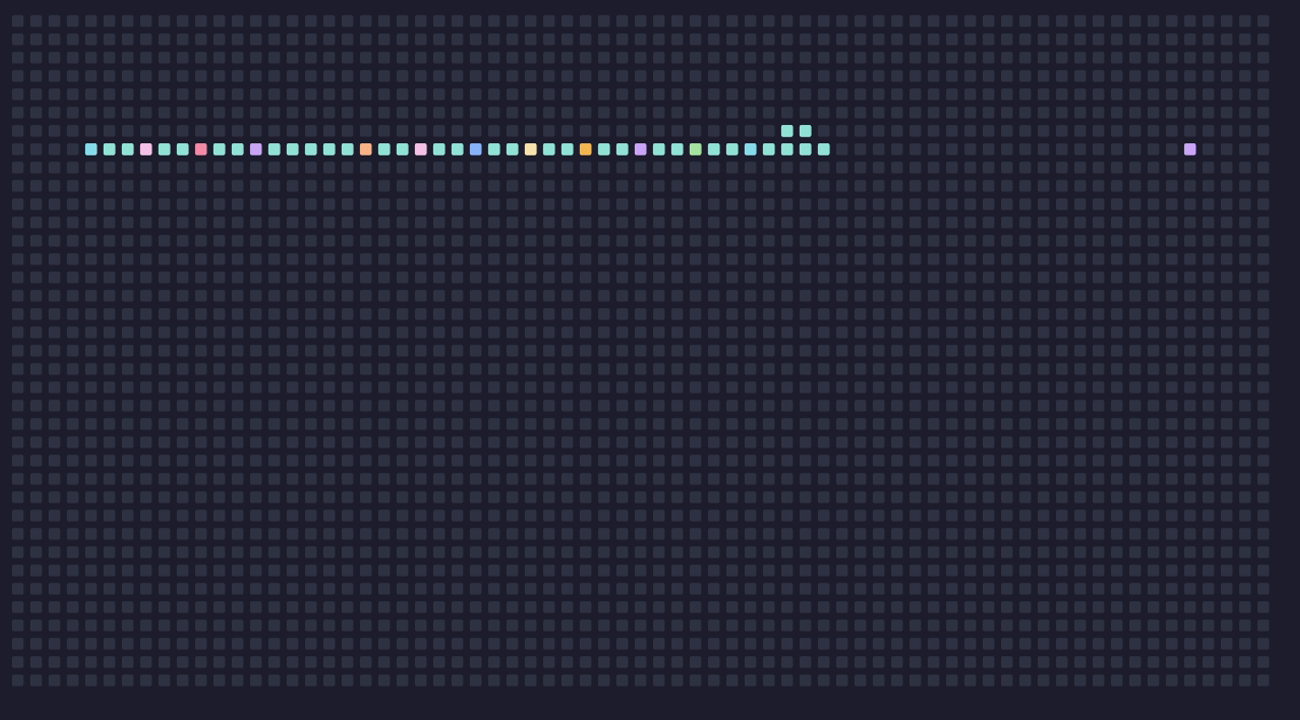
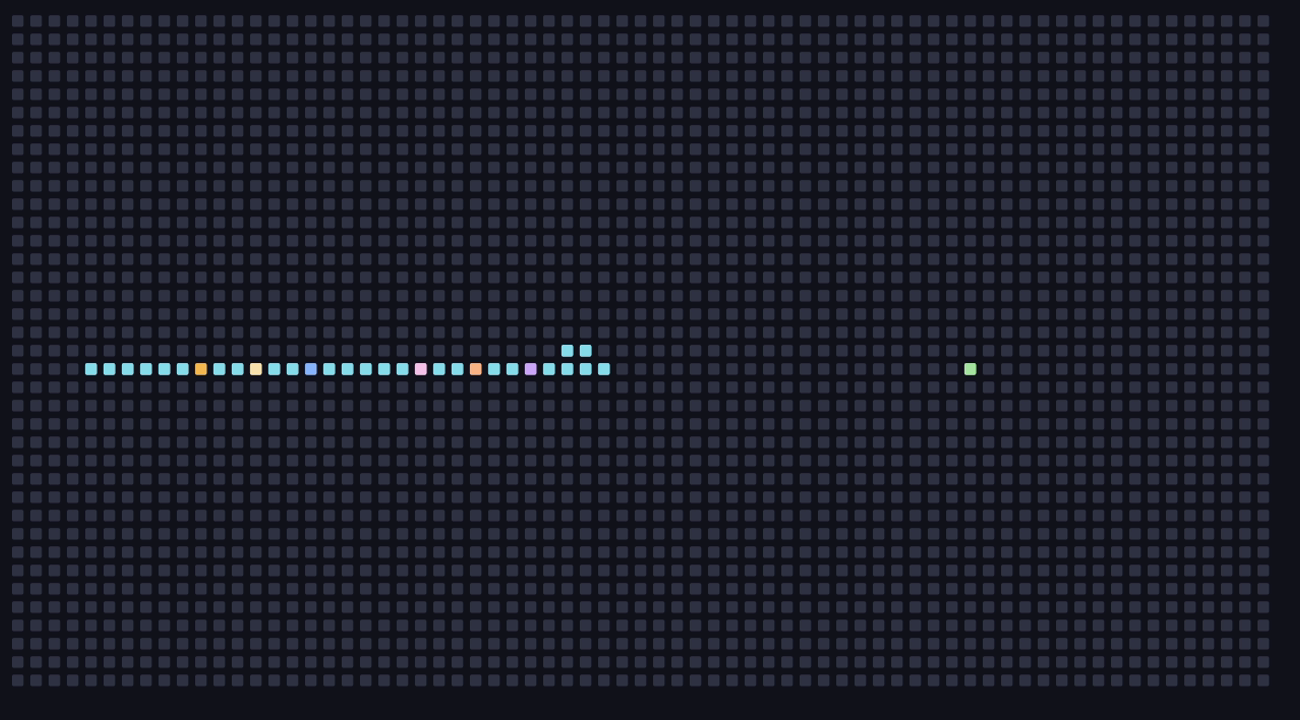
Record the demo and take the saver stills again on a terminal ground of crust, #11111b, as the user's own terminal has it: on the Mocha theme's base, the colour of the night runner's body, the gaps between its squares were lost and it showed as one dark blot

diff --git a/docs/dev-remarks.md b/docs/dev-remarks.md
@@ -175,6 +175,8 @@ README 只放一個 gif，`docs/demo.gif`，用 VHS 錄。tape 與展示用 conf
 
 VHS 0.12.0 在這台機器上會印 `Creating docs/demo.gif...` 卻不出檔（webu 也踩過），當時改用 0.11.0；2026-10-07 機器上只剩 0.12.1，正常出檔。VHS 的 `Type "…"` 不吃反斜線跳脫，字串裡要引號就用單引號；鏡頭外的指令用 `Type@5ms` 打，不然要等很久；等某個輸出用 `Wait+Screen@<逾時> /regex/`，要等的字在指令裡寫成 `RE''ADY`，免得一打出指令就符合。展示 config 設 `show_status: false`：狀態列會照實顯示錄影機器的 `user@host`，不公開進 README（2026-09-26）。
 
+兩支 tape 的主題是 Catppuccin Mocha 的色票、終端機底色換成 crust `#11111b`（2026-10-08）：Mocha 原本的底色是 base `#1e1e2e`，跟夜晚跑者的身體同色，方塊之間的縫看不出來，README 的 runner 圖像一整塊暗色——正是使用者否決過的樣子（跑者用 crust 時方塊糊成一團）。使用者的終端機底色是更深的 `#11111a`，身體的方塊比縫亮一階、看得到格點；換成 crust 後錄出來的跟他看到的一樣，gif 與靜態圖一起換。
+
 ### saver 的靜態圖（2026-10-08）
 
 README 的「What you see」每種 saver 一節，各配一張靜態圖 `docs/savers/<種類>.png`（使用者：不需要 gif）。用 VHS 的 `Screenshot` 拍：`.local/demos/savers.tape` 與 `savers.yaml`（七個 profile 照 Savers 的順序，`make shots`），在設定畫面逐一 `p` 預覽、等畫面有內容再拍。runner 是 city 配 night（使用者選的，新場景、夜裡一部分窗戶亮著）；custom 跑 cmatrix（使用者選的，所以拍照要裝 cmatrix）；snake 與 tetromino 用 `super-fast`、分別等 15 與 25 秒，畫面才不會空空的（我的判斷）；clock 用 `large`（使用者：全螢幕應該放得下 3 × 3），`HH MM SS` 的 large 要 148 欄，所以拍照的視窗是 1300 × 720、151 欄（gif 的 1200 寬只有 140 欄，放不下會先拿掉秒），七張一樣大。
